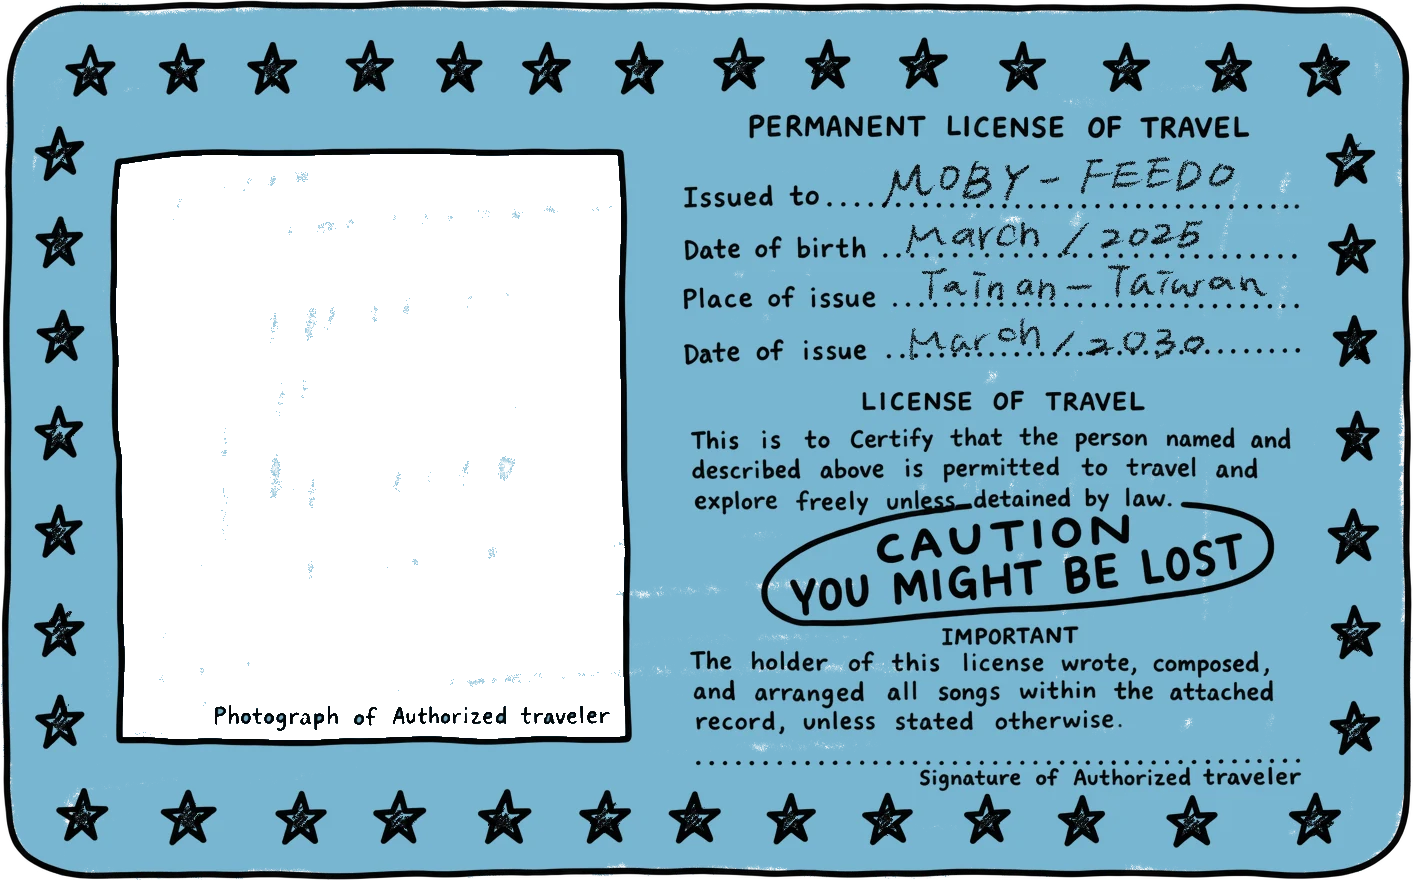
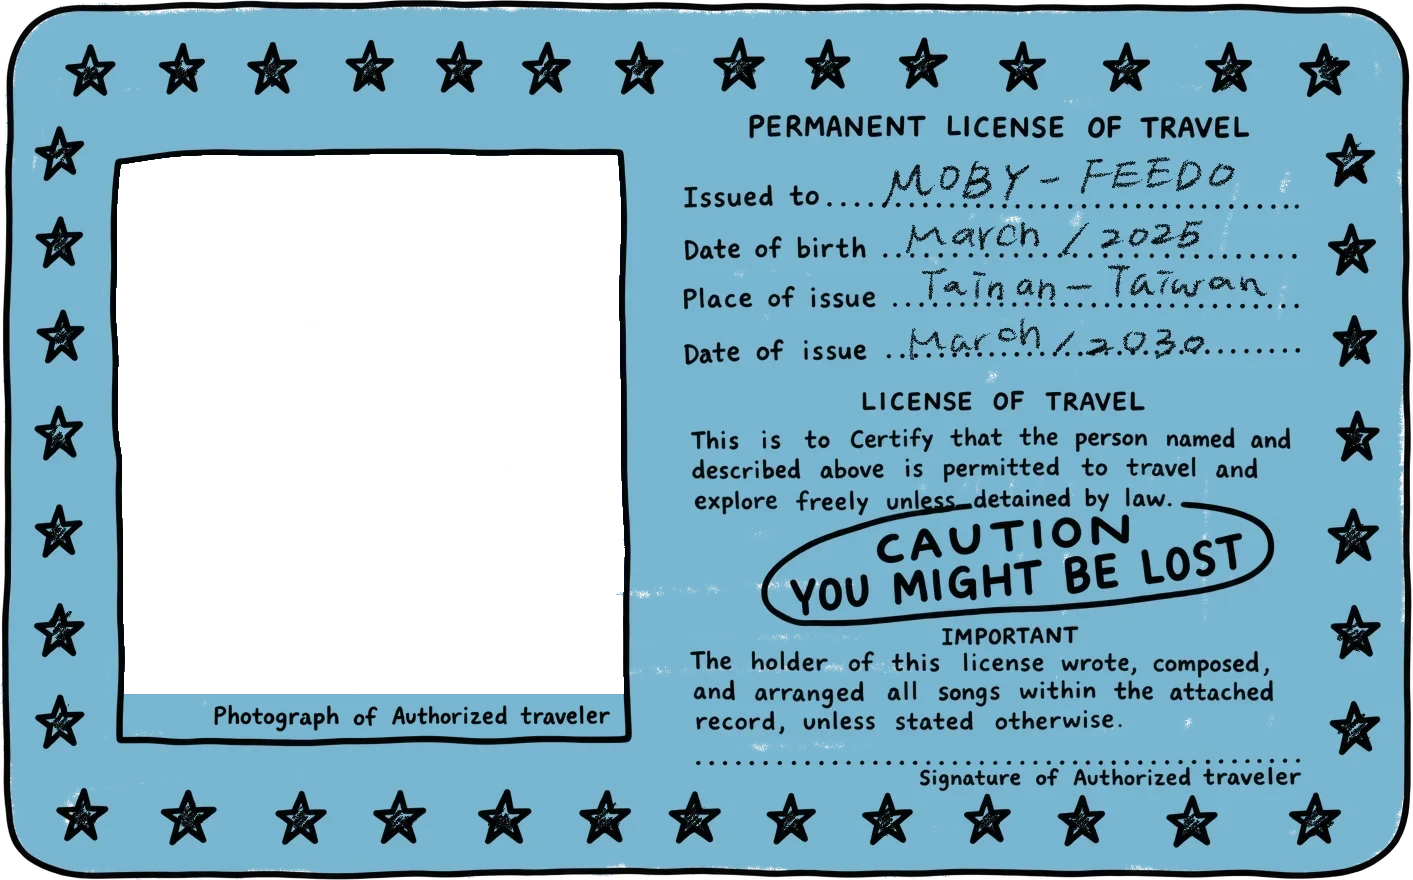
證件照:清掉照片上的紙紋碎點,說明小字移到照片下方
插畫的照片框底色上有手繪紙紋刮痕,跟框內底色沒連在一起,當初只挖了
連成一塊的區域,碎點就留在照片上。改成把框內被透明區包住的小島一起挖掉。

框底部的「Photograph of Authorized traveler」保留:照片框高度 586 -> 540,
底下那條恢復成原圖的卡片底色與小字,字不會壓在照片上。

圖檔名沿用,ASSET_V 升到 20260914c,避免快取的舊圖配到新座標。

Changed region(s): [[0.0623, 0.767, 0.4671, 0.8591], [0.3425, 0.5216, 0.3737, 0.5523], [0.1868, 0.5216, 0.218, 0.5523]]

diff --git a/index.html b/index.html
@@ -241,13 +241,13 @@ const TEMPLATES = [
   {id:'cream', name:'鮮奶油專賣店', src:'images/cream.webp', w:587, h:1494,
     slots:[[217,229,187,252],[225,904,177,239]]},
   {id:'idblue', frame:'id', name:'證件照 · 藍', src:'images/idblue.webp', w:1413, h:880,
-    slots:[[116,154,509,586]]},
+    slots:[[116,154,509,540]]},
   {id:'idpink', frame:'id', name:'證件照 · 粉', src:'images/idpink.webp', w:1414, h:881,
-    slots:[[117,154,509,586]]}
+    slots:[[117,154,509,540]]}
 ];
 // 模板圖的檔名會沿用,但換圖時尺寸和照片框位置都會變。如果瀏覽器或 CDN 還拿著舊圖,
 // 新座標套在舊圖上就會錯位(照片被插畫蓋住,只露出一條邊)。換模板圖時一定要改這個版本號。
-const ASSET_V = '20260914';
+const ASSET_V = '20260914c';   // c:證件照照片框清掉紙紋碎點,說明小字移到照片下方
 TEMPLATES.forEach(t => { t.src += '?v=' + ASSET_V; });
 const COUNT_FROM = 3;
 // 成品底色:插畫是去背的,這個顏色會出現在輪廓外的凹角。
